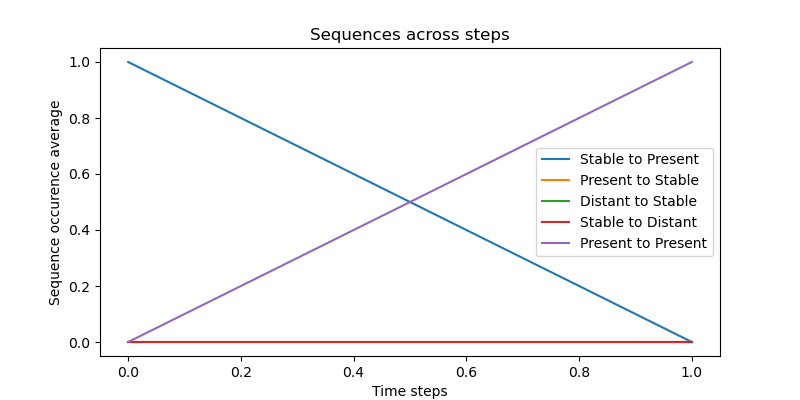
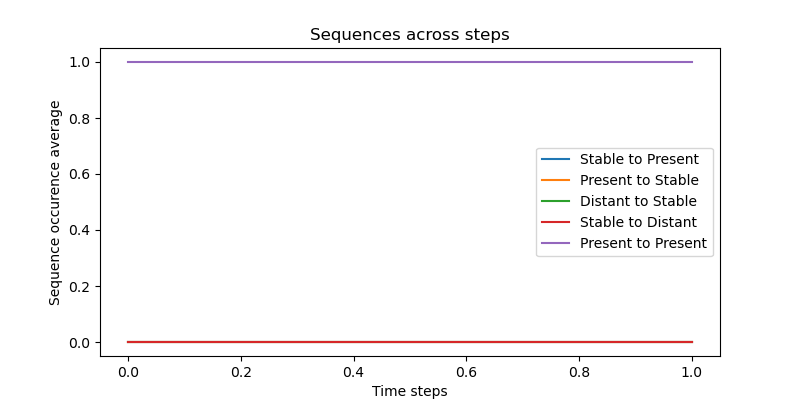
some more minor bug fixes for evaluation sequence measure

diff --git a/simulation.py b/simulation.py
@@ -187,6 +187,7 @@ def run_experiment(num_train_trials=100, num_test_trials=20, run_train_only=Fals
 
     if num_train_trials:
         train_grids = random.choices(grid_names, k=num_train_trials)
+        train_grids = [grid_name.split(".")[0] for grid_name in train_grids]
         #make this list a pandas dataframe
         train_trials = pd.DataFrame(train_grids, columns=["Grid_Name"])
         train_results, train_construction_correctness, _, _ = run_participant_session(participant, train_trials)
@@ -211,8 +212,8 @@ def run_experiment(num_train_trials=100, num_test_trials=20, run_train_only=Fals
 
     if run_train_only: return
 
-    test_trial_indices = random.sample(range(len(test_trials)), num_test_trials)
-    test_trials = test_trials.iloc[test_trial_indices]
+    test_trial_indices = random.sample(test_trials['PID'].unique().tolist(), num_test_trials)
+    test_trials = test_trials[test_trials["PID"].isin(test_trial_indices)]
 
     test_grid_names = test_trials["Grid_Name"].tolist()
     test_grids = [np.load(f"processed/test_data/test_stims/{grid_name}.npy") for grid_name in test_grid_names]
@@ -277,4 +278,4 @@ def run_experiment(num_train_trials=100, num_test_trials=20, run_train_only=Fals
     # plt.show()
 
 if __name__ == "__main__":
-    run_experiment(num_train_trials=0, num_test_trials=1)
+    run_experiment(num_train_trials=0, num_test_trials=2)

diff --git a/evaluation.py b/evaluation.py
@@ -182,7 +182,7 @@ def simple_sequenceness(rule_choices, rule_lhs_information, grids):
         only_presents = brick_rel.count(SHAPE_MAP[stable_block]) == 2
         t = brick_rel.index(SHAPE_MAP[stable_block])
         present = brick_rel[t - 2 if t >= 2 else t + 2]
-        present2 = np.unique(grids)[(np.unique(grids) != present) & (np.unique(grids) != SHAPE_MAP[stable_block]) & (np.unique(grids) != 0)].item()
+        present2 = np.unique(grids[i])[(np.unique(grids[i]) != present) & (np.unique(grids[i]) != SHAPE_MAP[stable_block]) & (np.unique(grids[i]) != 0)].item()
         present_block = REVERSE_SHAPE_MAP[present]
         present2_block = REVERSE_SHAPE_MAP[present2]
 

diff --git a/base_participant.py b/base_participant.py
@@ -355,3 +355,12 @@ class AbstractParticipant(BaseParticipant):
         self.abstract_space_matchstats.crit.data.append(new_crit_score)
         
         self.abstract_space_matchstats.increment() # TODO: apt timedelta?
+
+
+"""
+MLP will be changing the weights of the main in the input class -- by a certain amount
+but ideally it should only change the weights of that which is already there. -- you can establish that by multiplication -- because if it isnt there, 
+it is 0.
+
+But what about the MLP -- it cant be an IDN with TD error. What do attention MLPs look like? Whats a good way to implement that?
+"""
